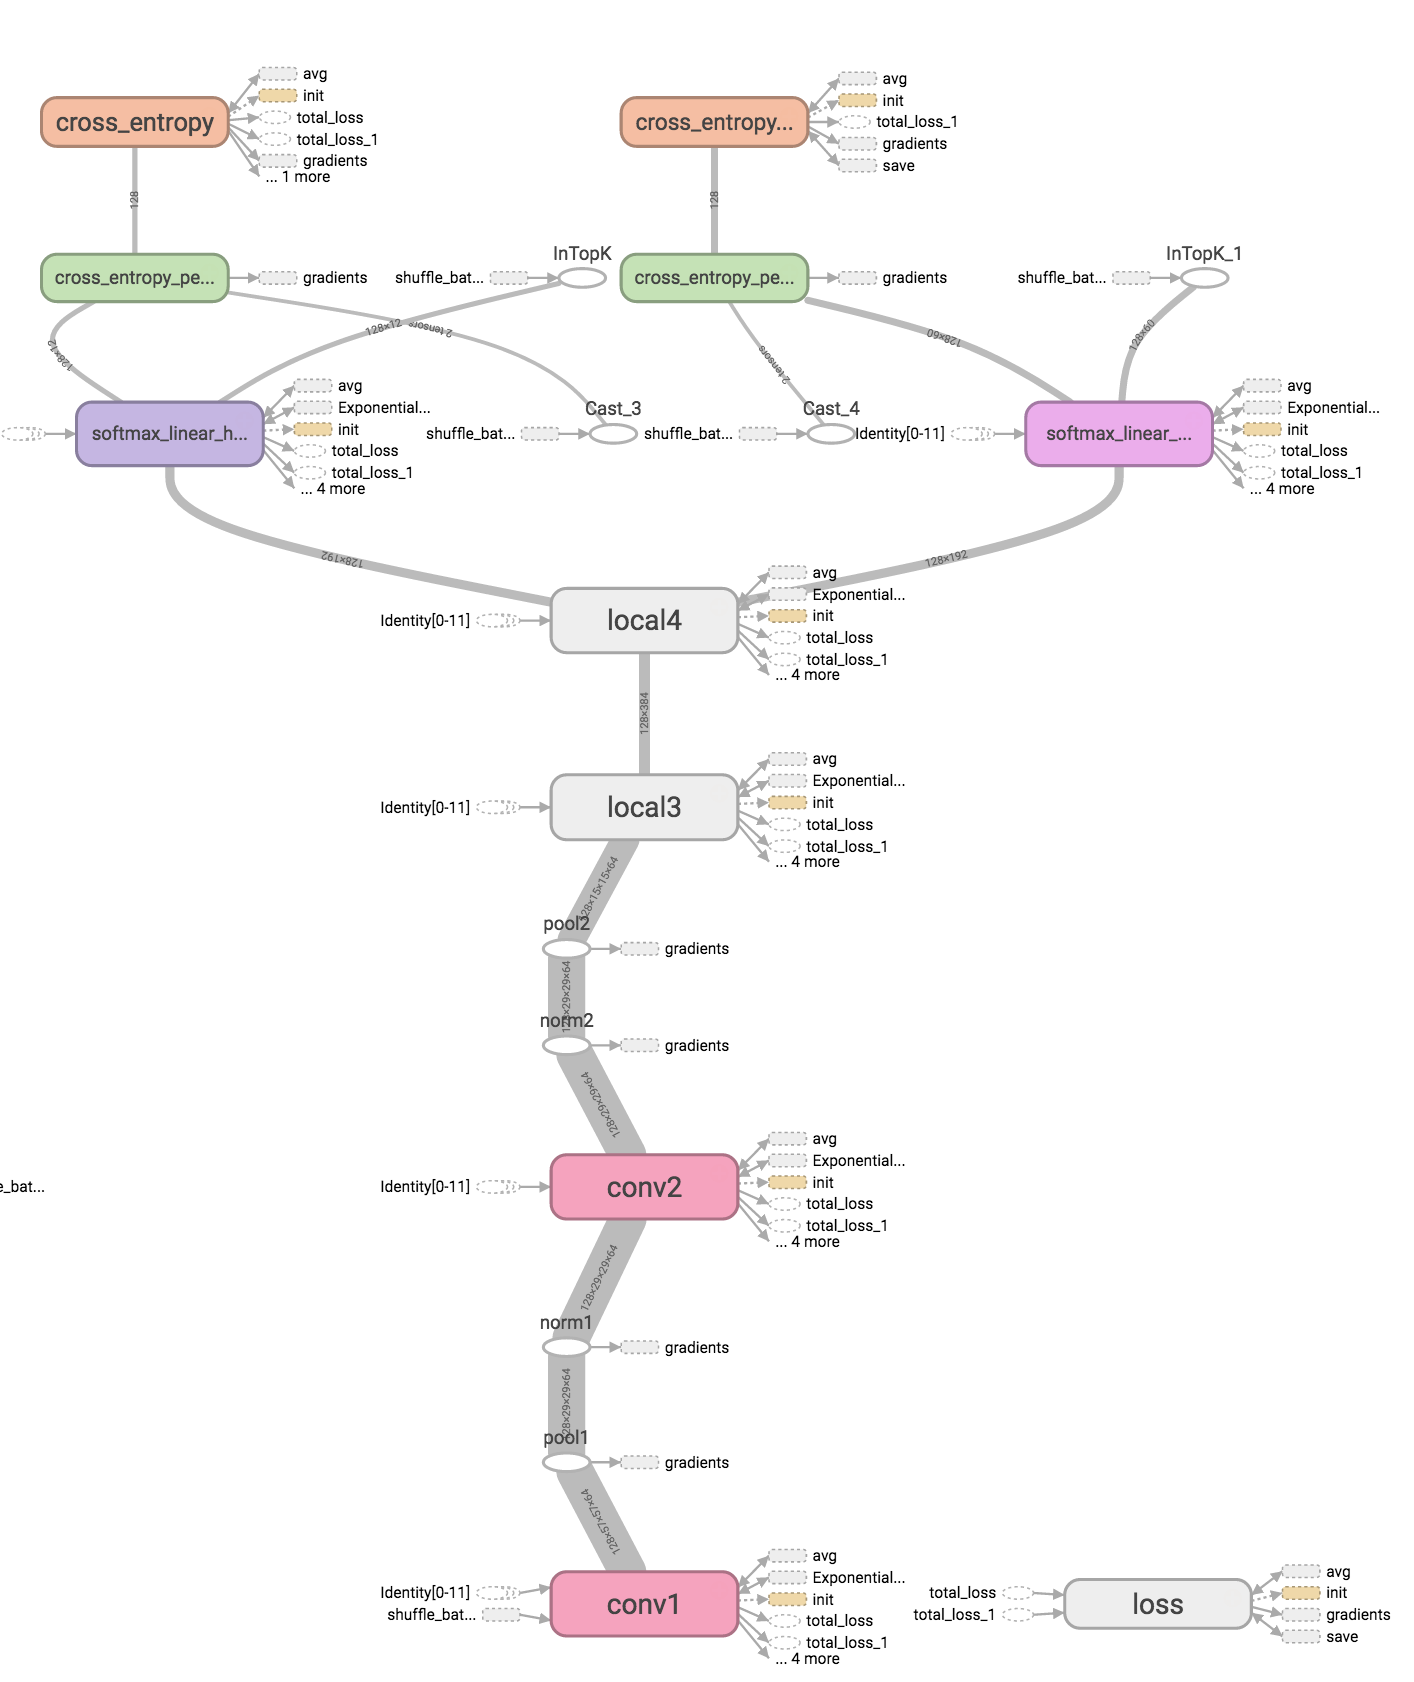
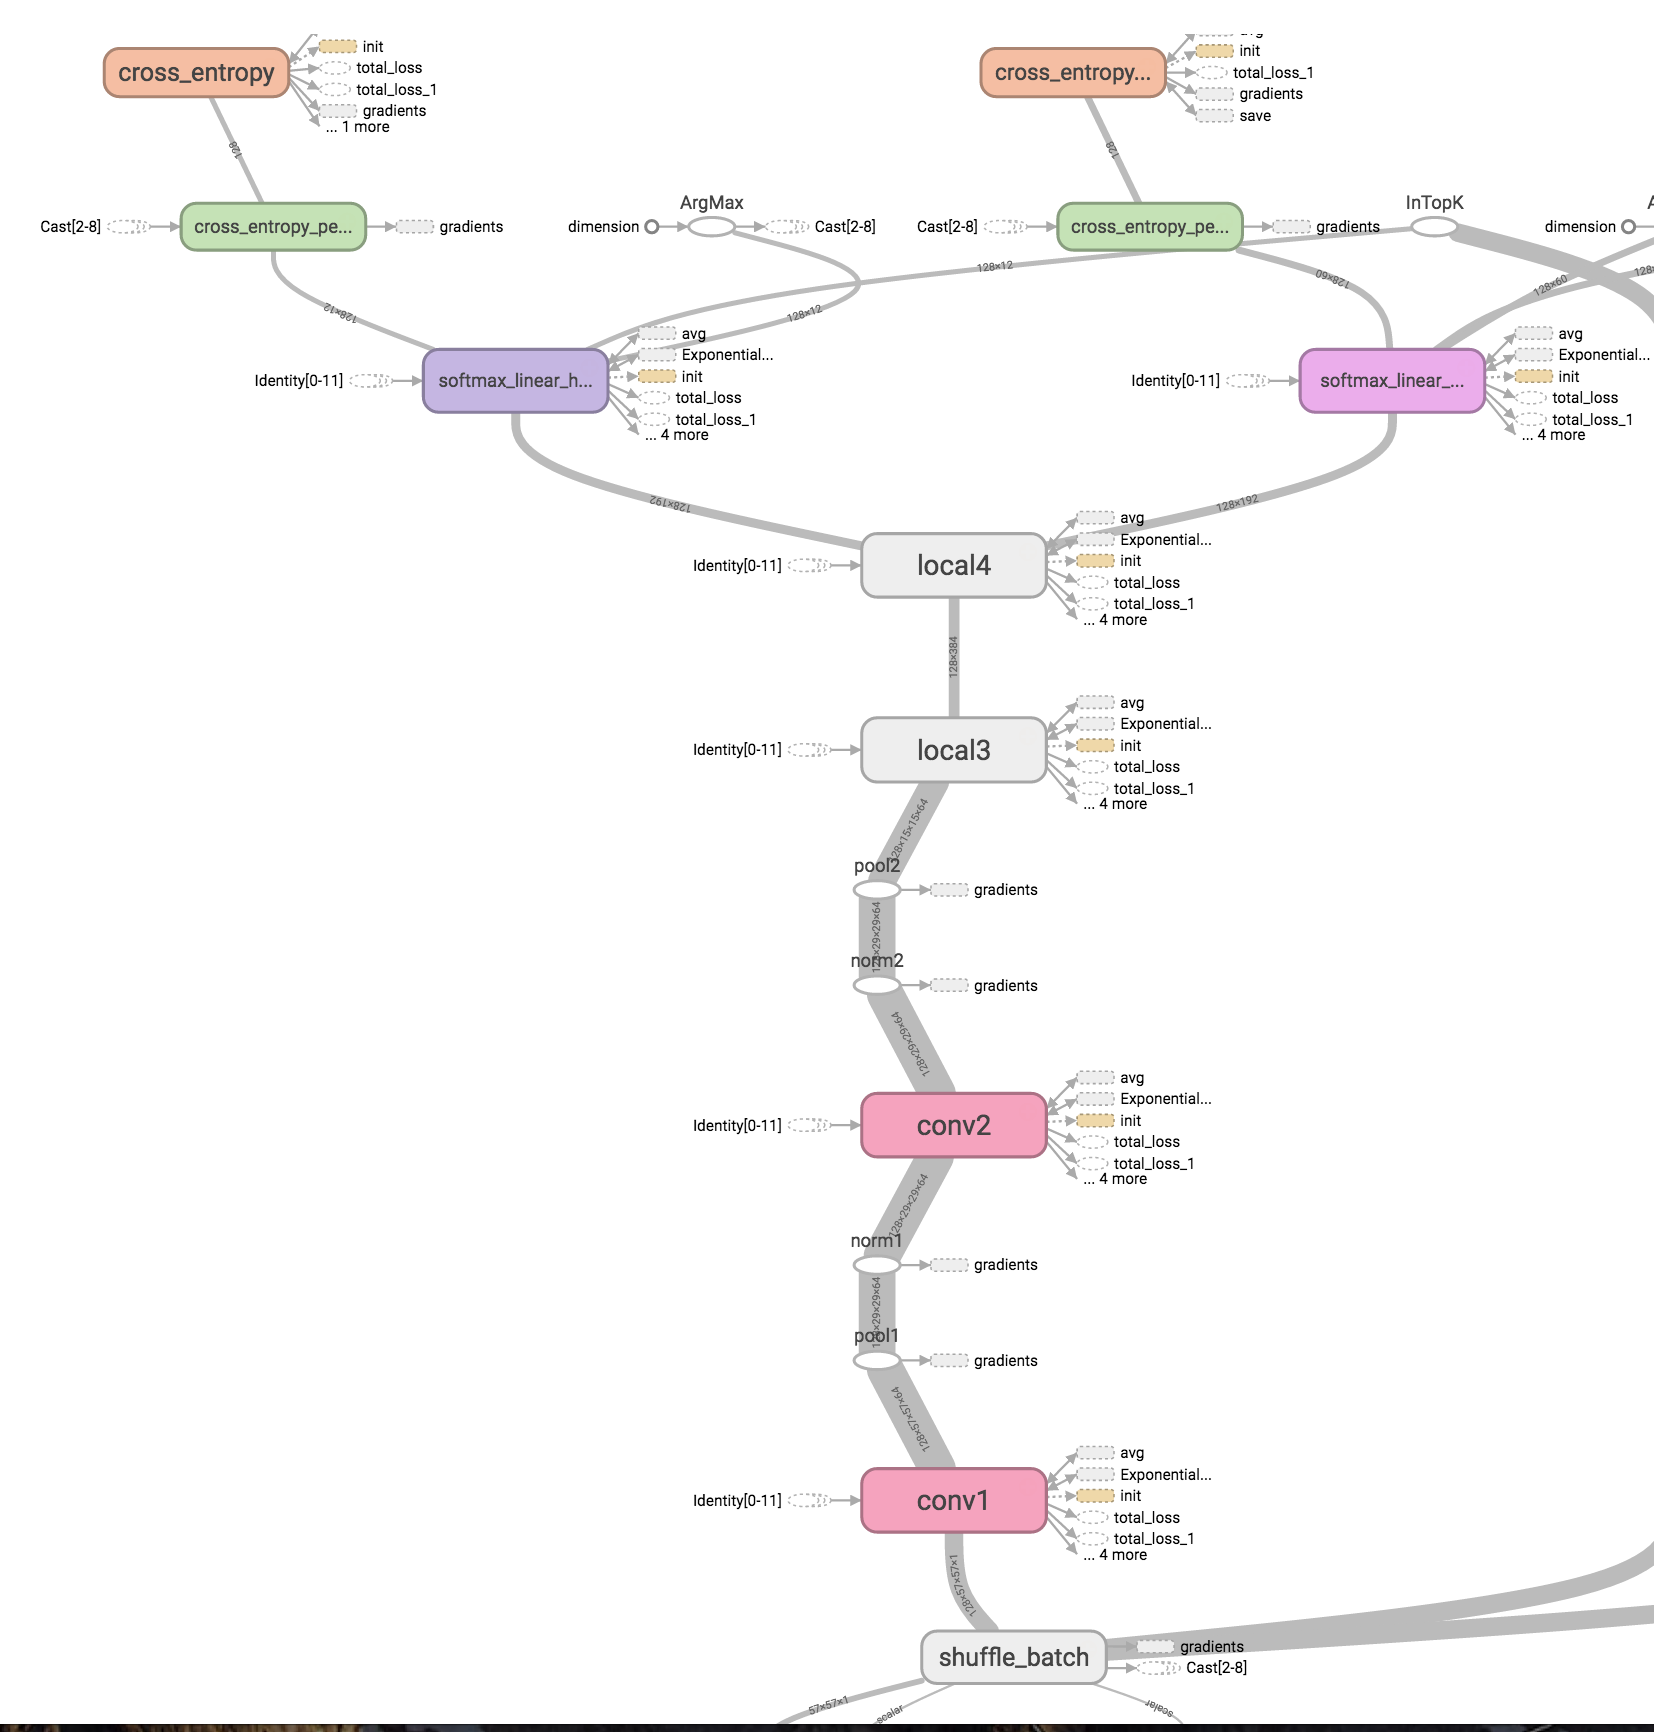
Add graph into README, replace image.

diff --git a/README.md b/README.md
@@ -151,11 +151,13 @@ In this way, the model uses the same parameters for all other layers.
 
 The final model looks something like this:
 
-TODO: Add image of graph.
+![alt-text][tf_graph]
 
-As you can see, the input is fed through several layers, then the final layer
+[tf_graph]: https://raw.githubusercontent.com/felixduvallet/deep-time-reading/master/assets/tf_graph.png "Tensorflow graph"
+
+As you can see, the input (at the bottom) is fed through several layers, then the final layer
 diverges: one softmax classifier for hours and one for minutes.
-Note that both classifiers are using the same learned features.
+Note that both classifiers are using the same learned intermediate features.
 
 ### Learn!
 
